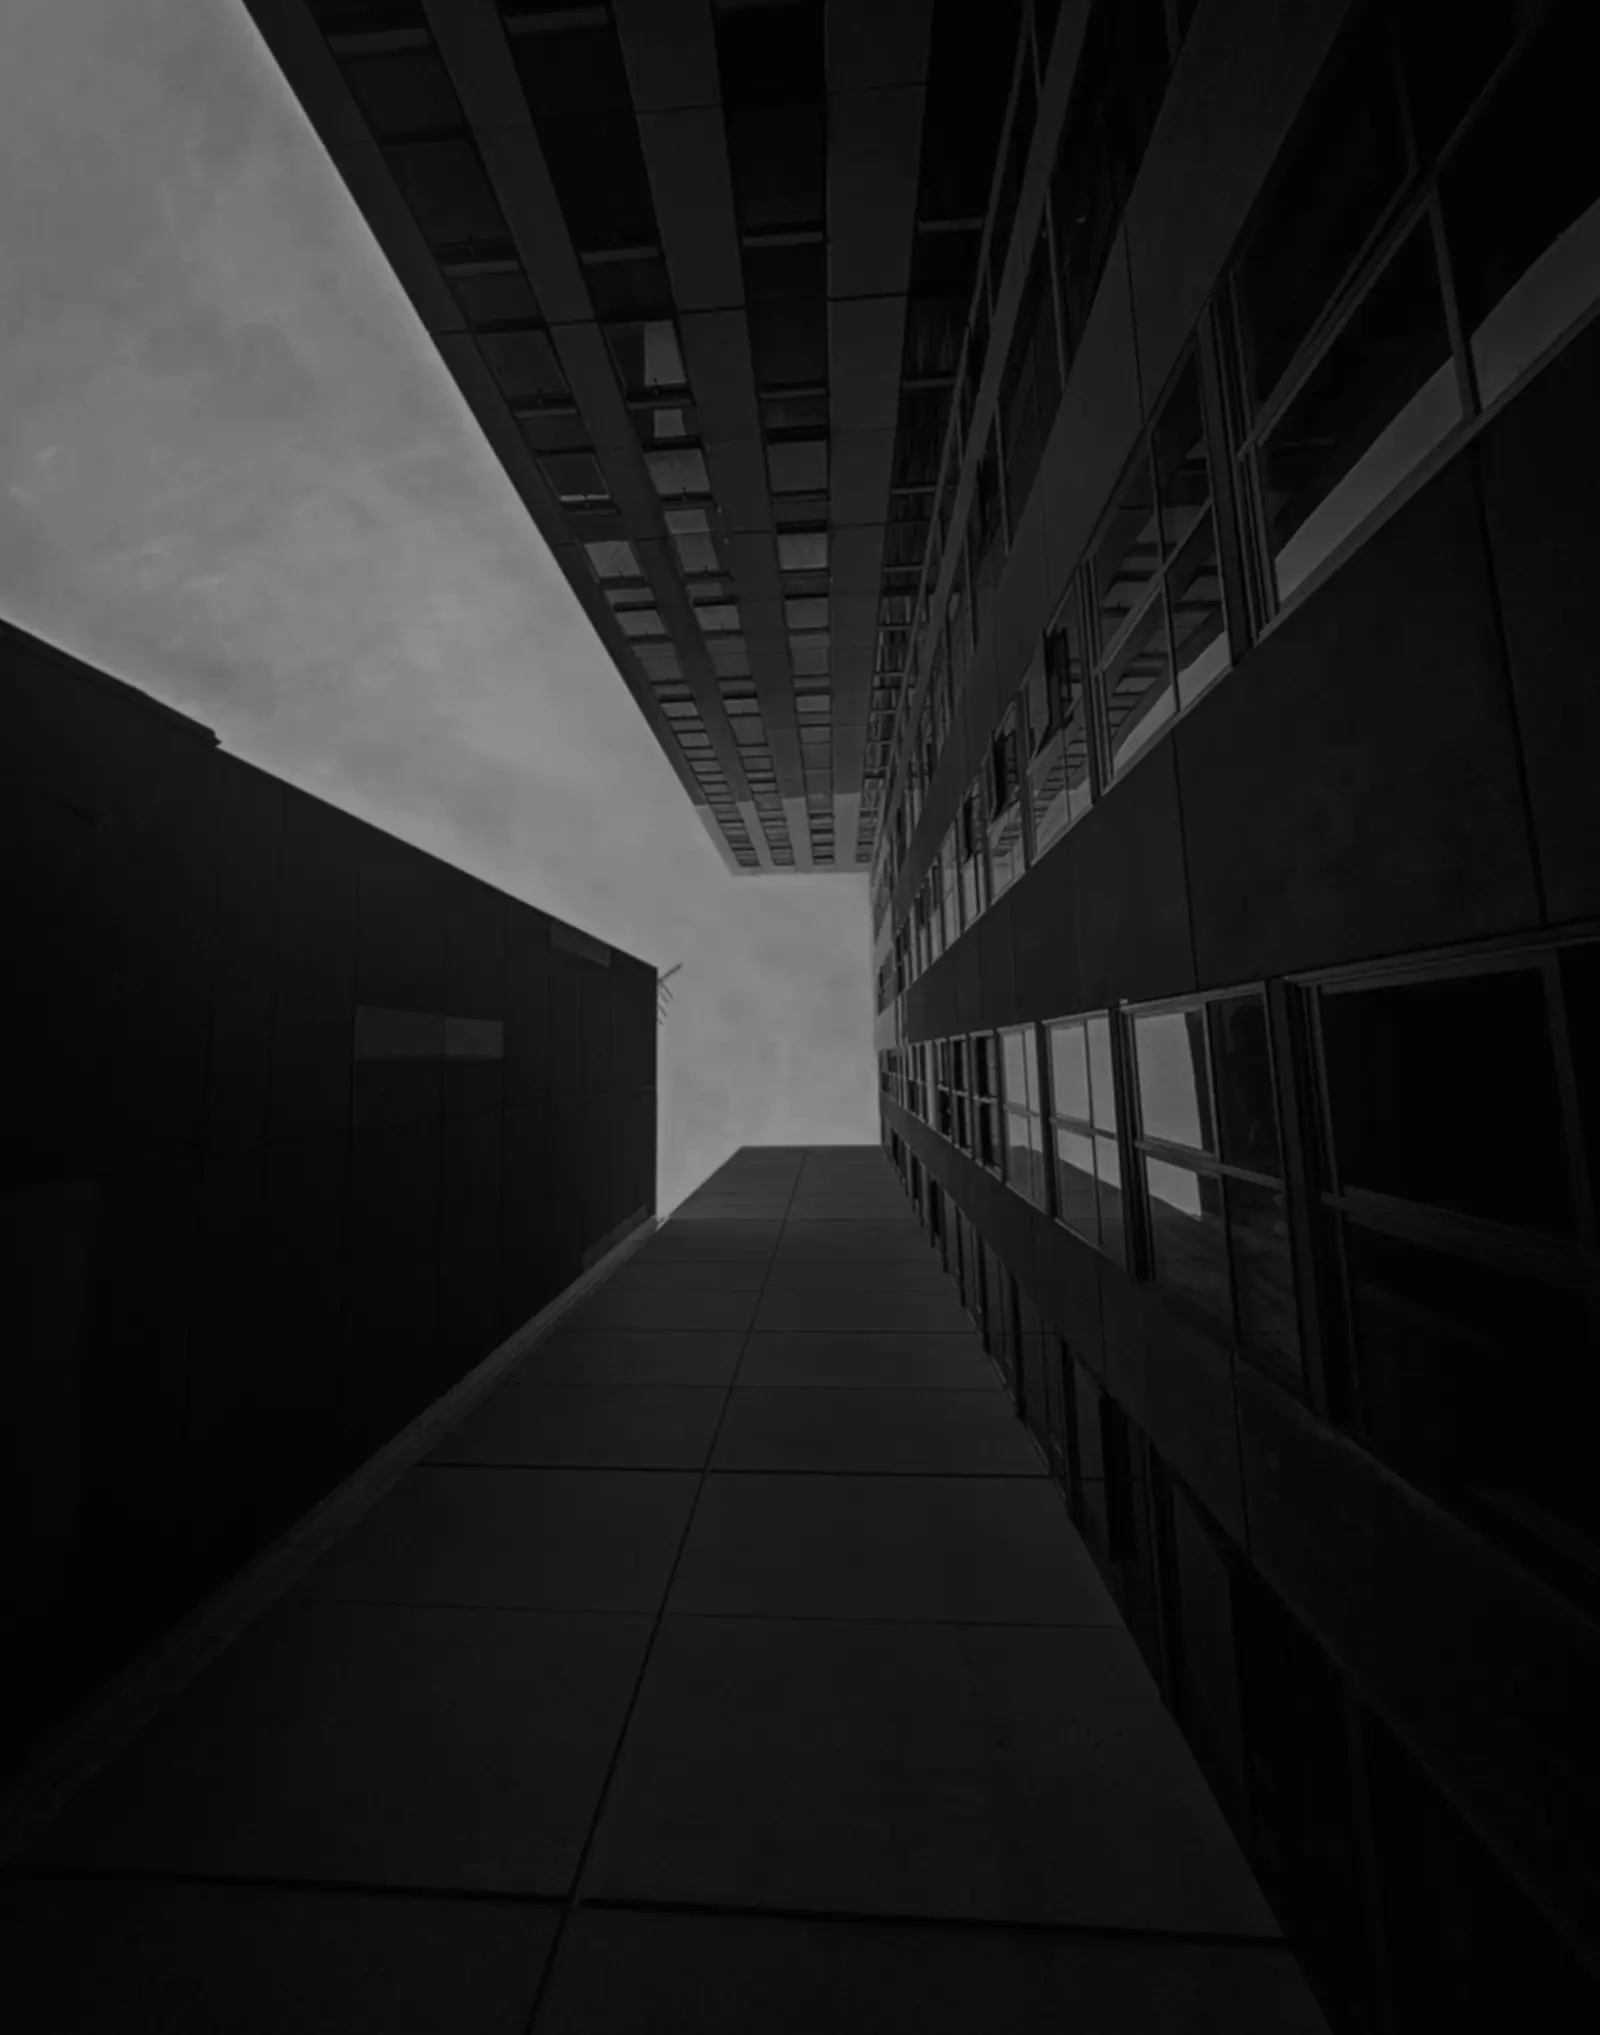
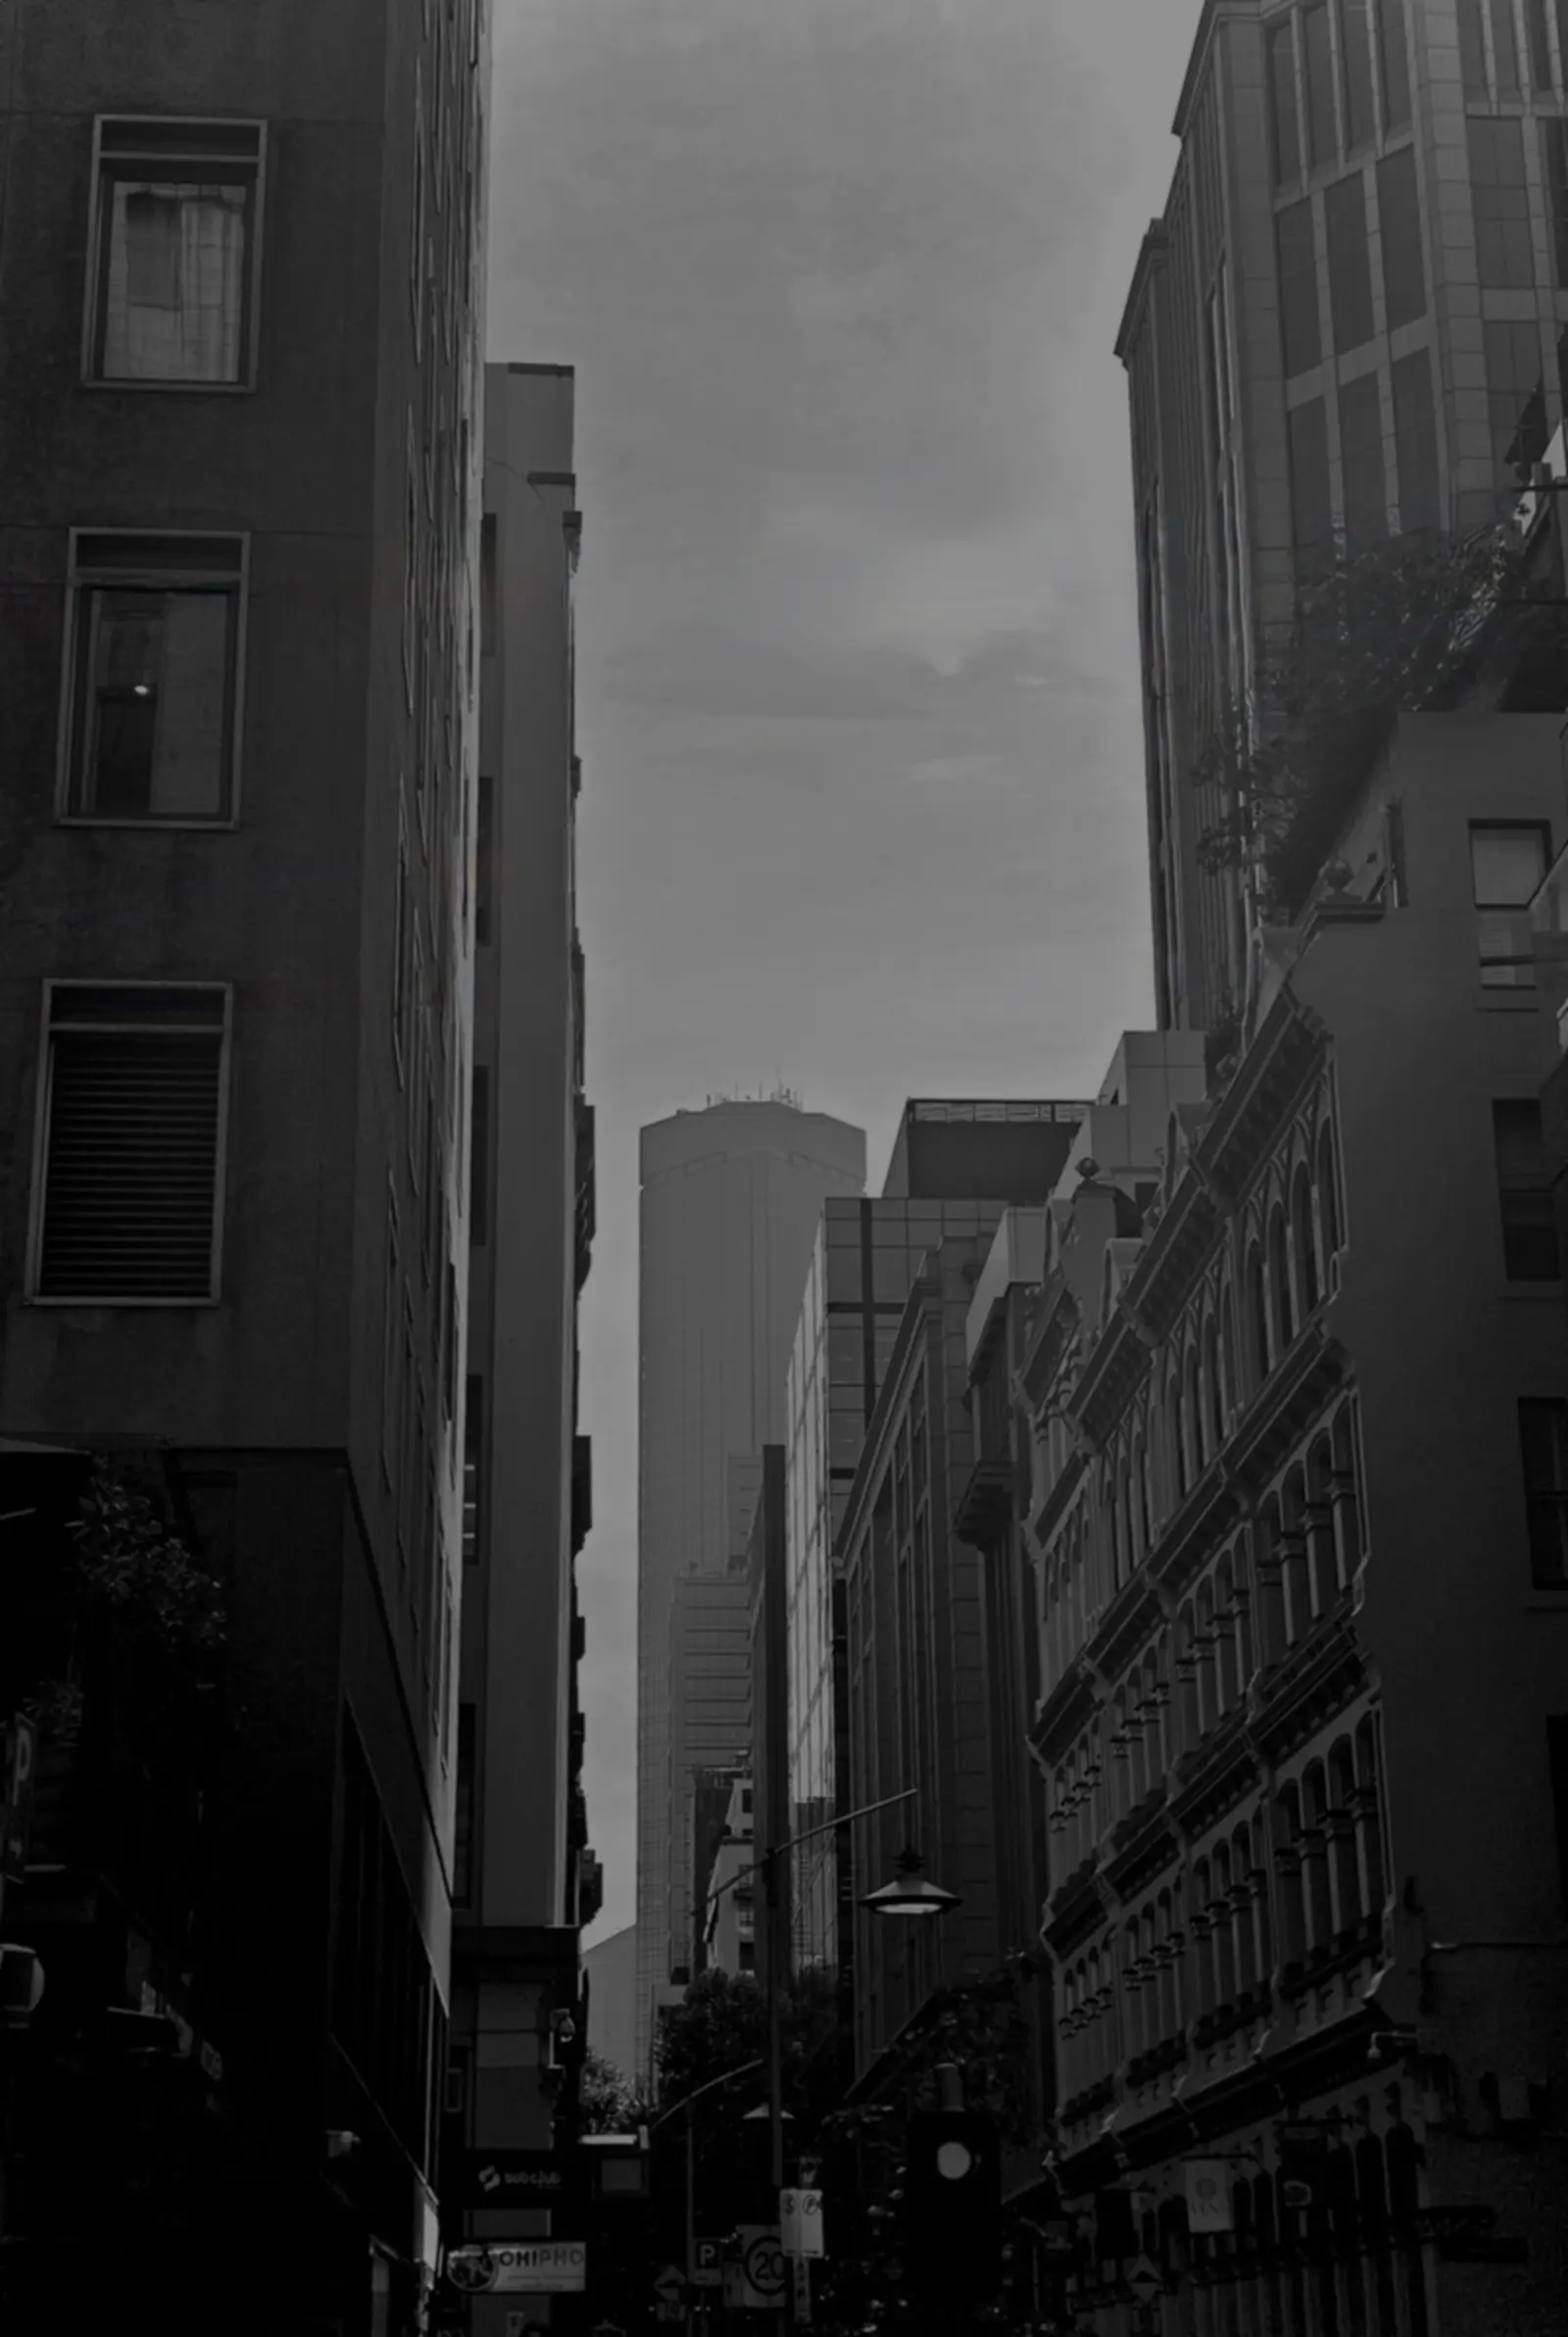
fix: drop about side photo, laneway shot becomes projects background

diff --git a/app/page.tsx b/app/page.tsx
@@ -141,8 +141,8 @@ export default function Home() {
       {/* ---------- ABOUT ---------- */}
       <section id="about" className="mx-auto max-w-6xl px-6 py-16 sm:py-24">
         <SectionHeading kicker="About" title="Builder first, student second" />
-        <div className="mt-8 grid items-start gap-10 md:grid-cols-5">
-          <Reveal className="md:col-span-3" delay={100}>
+        <div className="mt-8 max-w-3xl">
+          <Reveal delay={100}>
             <div className="space-y-5 text-lg leading-relaxed text-muted">
               <p>
                 I&apos;m studying Mathematical and Computer Science at Adelaide
@@ -163,21 +163,6 @@ export default function Home() {
                 strict style rules. It taught me to write code other people
                 can read.
               </p>
-            </div>
-          </Reveal>
-          <Reveal className="md:col-span-2" delay={200}>
-            <div className="group relative overflow-hidden rounded-2xl border border-line">
-              <Image
-                src="/photos/about.webp"
-                alt="City laneway between tall buildings, black and white — photo by Rafid Tahmid"
-                width={900}
-                height={1341}
-                sizes="(max-width: 768px) 100vw, 40vw"
-                className="h-auto w-full transition-transform duration-700 group-hover:scale-[1.03]"
-              />
-              <div className="absolute inset-x-0 bottom-0 bg-gradient-to-t from-bg/85 to-transparent p-4">
-                <p className="photo-caption">Melbourne laneways · shot by me</p>
-              </div>
             </div>
           </Reveal>
         </div>